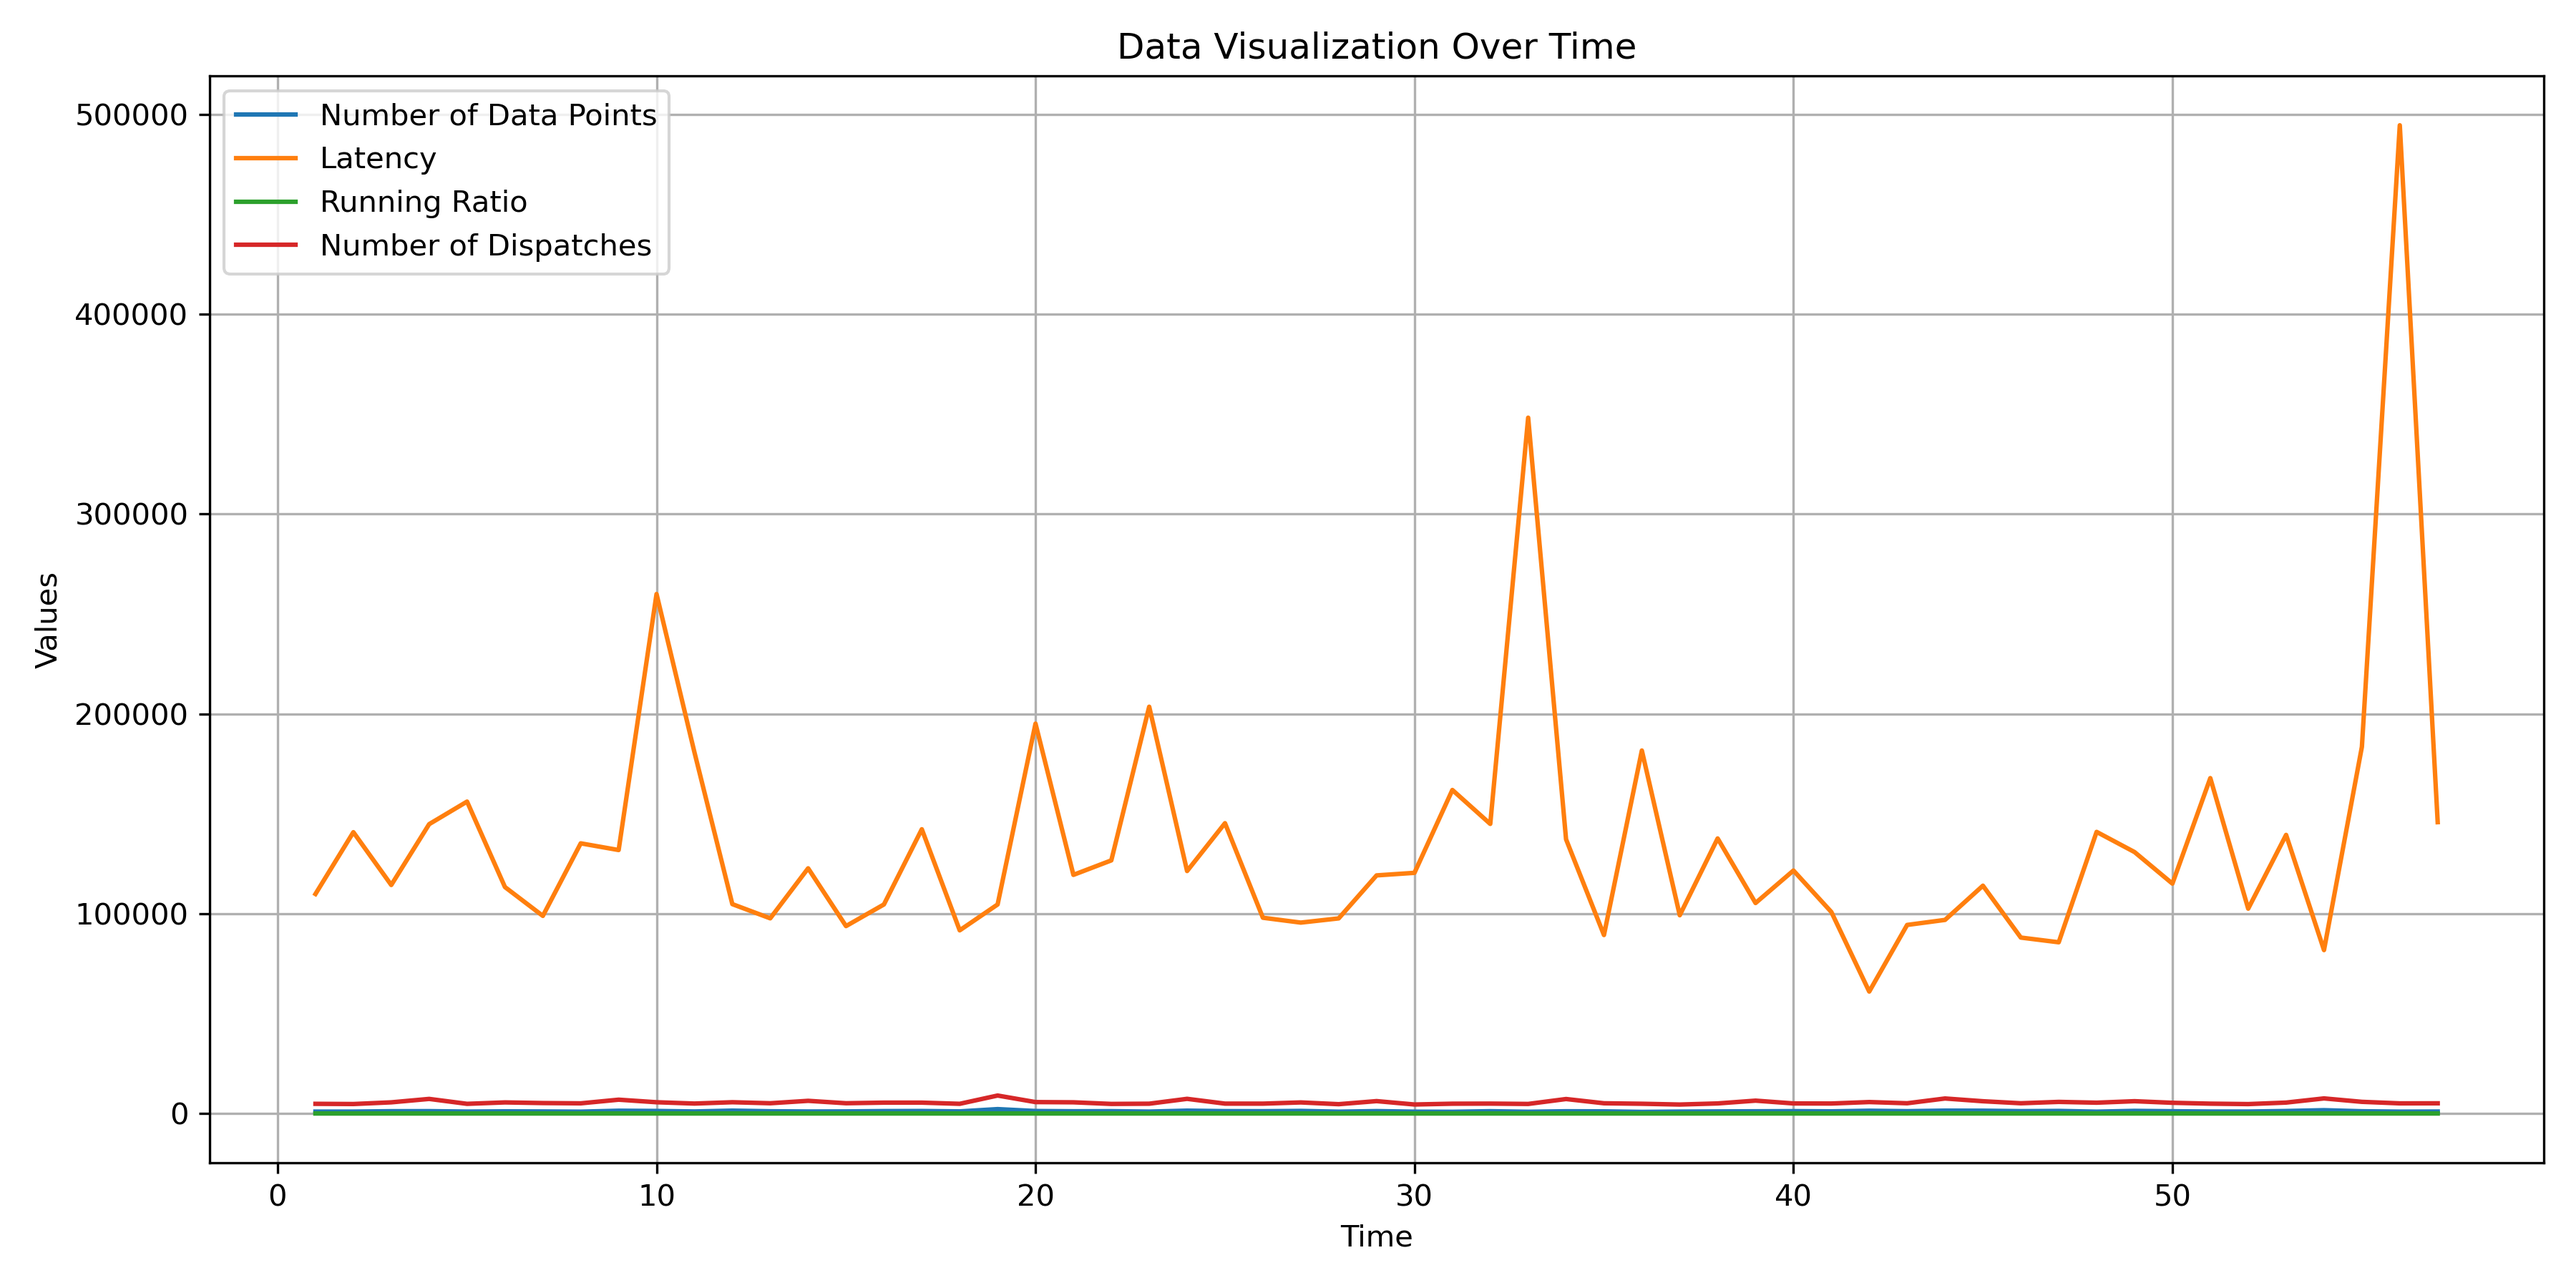
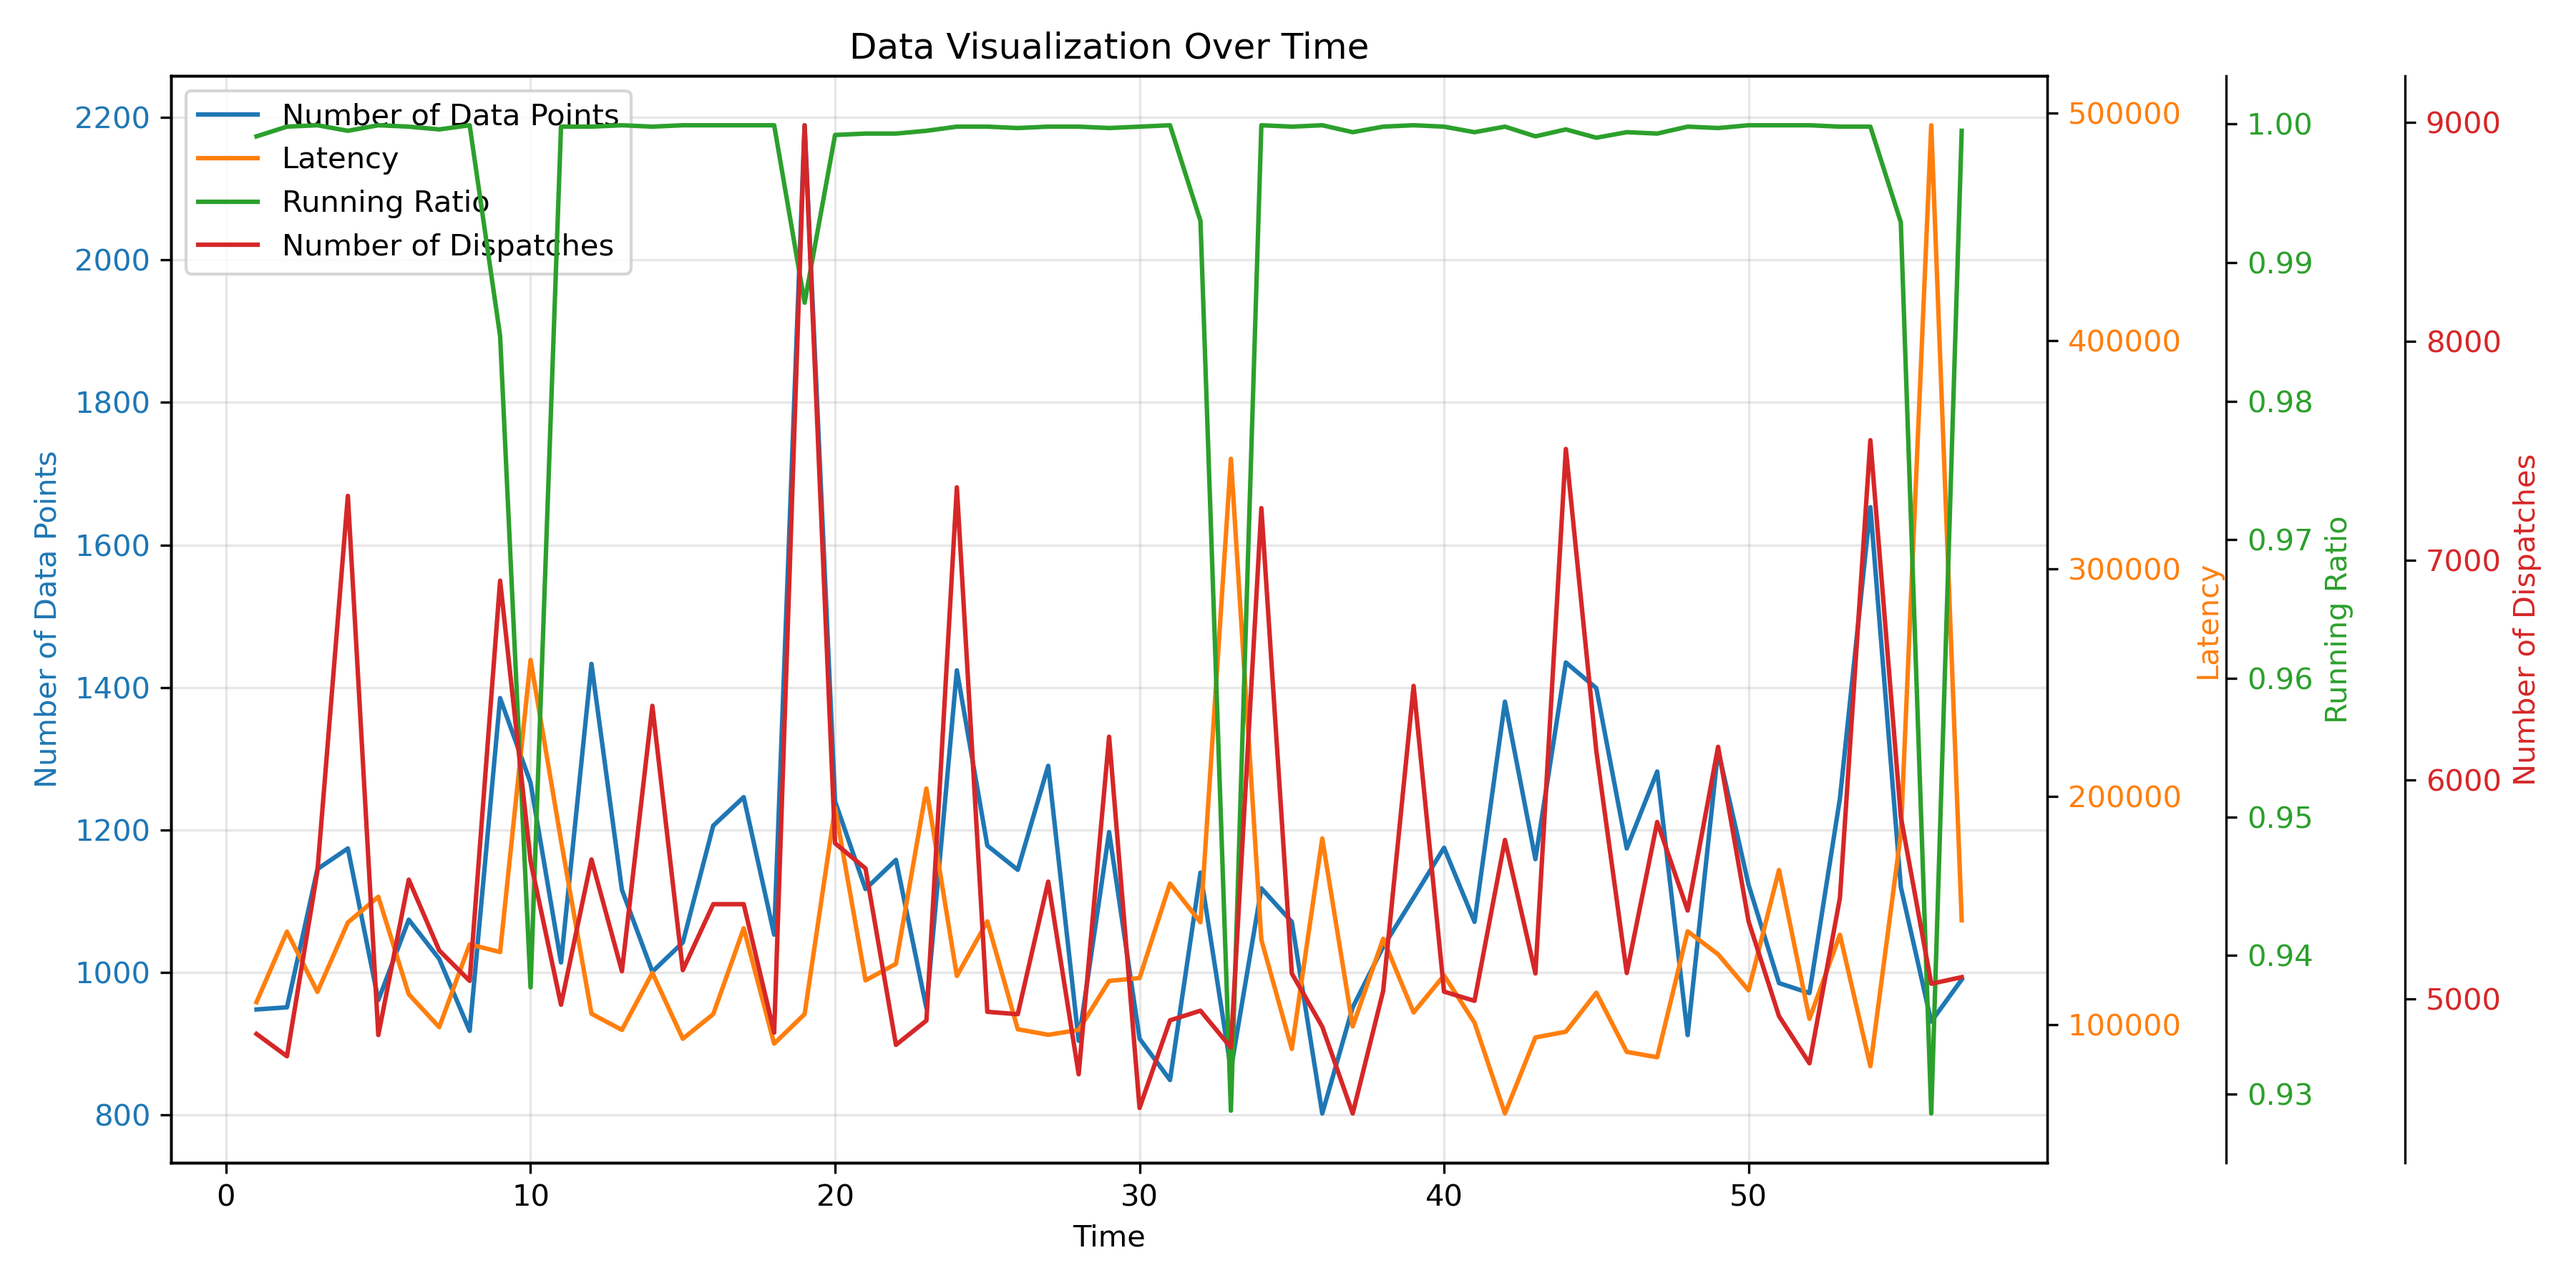
Updated visualization for visuals1.py

diff --git a/visuals1.py b/visuals1.py
@@ -19,21 +19,50 @@ with open('us.csv', 'r') as file:
         running_ratios.append(float(row[3]))
         num_dispatches.append(float(row[4]))
 
-# Create the plot
-plt.figure(figsize=(12, 6))
+# Create the plot with multiple y-axes
+fig, ax1 = plt.subplots(figsize=(12, 6))
 
-# Plot each line
-plt.plot(times, num_data_points, label='Number of Data Points')
-plt.plot(times, latencies, label='Latency')
-plt.plot(times, running_ratios, label='Running Ratio')
-plt.plot(times, num_dispatches, label='Number of Dispatches')
+# Plot each line on its own axis
+color1, color2, color3, color4 = 'tab:blue', 'tab:orange', 'tab:green', 'tab:red'
 
-# Customize the plot
+# Number of Data Points
+ax1.set_xlabel('Time')
+ax1.set_ylabel('Number of Data Points', color=color1)
+ax1.plot(times, num_data_points, color=color1, label='Number of Data Points')
+ax1.tick_params(axis='y', labelcolor=color1)
+
+# Latency
+ax2 = ax1.twinx()
+ax2.set_ylabel('Latency', color=color2)
+ax2.plot(times, latencies, color=color2, label='Latency')
+ax2.tick_params(axis='y', labelcolor=color2)
+
+# Running Ratio
+ax3 = ax1.twinx()
+ax3.spines['right'].set_position(('outward', 60))
+ax3.set_ylabel('Running Ratio', color=color3)
+ax3.plot(times, running_ratios, color=color3, label='Running Ratio')
+ax3.tick_params(axis='y', labelcolor=color3)
+
+# Number of Dispatches
+ax4 = ax1.twinx()
+ax4.spines['right'].set_position(('outward', 120))
+ax4.set_ylabel('Number of Dispatches', color=color4)
+ax4.plot(times, num_dispatches, color=color4, label='Number of Dispatches')
+ax4.tick_params(axis='y', labelcolor=color4)
+
+# Title and grid
 plt.title('Data Visualization Over Time')
-plt.xlabel('Time')
-plt.ylabel('Values')
-plt.legend()
-plt.grid(True)
+ax1.grid(True, alpha=0.3)
+
+# Combine all lines in one legend
+lines1, labels1 = ax1.get_legend_handles_labels()
+lines2, labels2 = ax2.get_legend_handles_labels()
+lines3, labels3 = ax3.get_legend_handles_labels()
+lines4, labels4 = ax4.get_legend_handles_labels()
+lines = lines1 + lines2 + lines3 + lines4
+labels = labels1 + labels2 + labels3 + labels4
+ax1.legend(lines, labels, loc='upper left')
 
 # Adjust layout to prevent cutting off labels
 plt.tight_layout()
